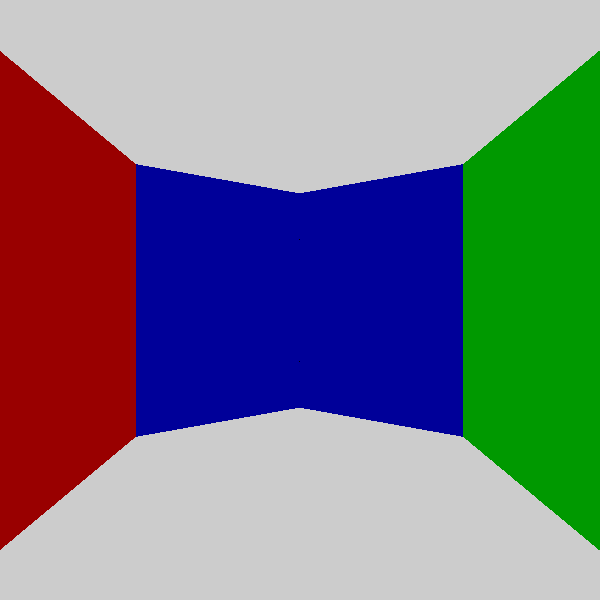
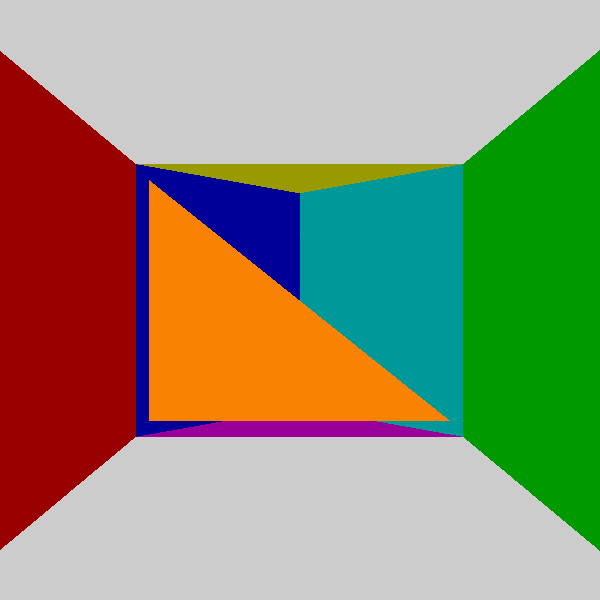
More colors and fixed intersection
Full raytracer mode on ya fellas

Changed region(s): [[0.24, 0.27, 0.78, 0.75]]

diff --git a/source/main.cpp b/source/main.cpp
@@ -1,5 +1,6 @@
 #include <iostream>
 #include <vector>
+#include <limits> // for std::numeric_limits
 
 #include "../include/glm/glm.hpp"
 #include "../include/colorDBL.h"
@@ -18,14 +19,13 @@ int main() {
     int imageWidth = 600;
     int imageHeight = 600;
 
-    // Creates the image plane
-    std::vector<std::vector<ColorDBL>> pixelMatrix(imageWidth, std::vector<ColorDBL>(imageHeight));
-
+    // Creates the camera with an image plane
+    std::vector<std::vector<ColorDBL>> imagePlane(imageWidth, std::vector<ColorDBL>(imageHeight));
     Camera theCamera(glm::vec3(-1, 0, 0), imageWidth, imageHeight);
     theScene.addCamera(theCamera);
 
     // Add objects (e.g., spheres, triangles) to the scene
-    
+    theScene.addPolygon(new Triangle(glm::vec3(9, 5, -4), glm::vec3(9, -5, -4), glm::vec3(9, 5, 4), ColorDBL(0.98, 0.51, 0.01)));
 
     // Adds a light to the scene
     Light* theLight = new Light(glm::vec3(0, 0, 5), 4.0f, 4.0f, glm::vec3(1, 1, 1));
@@ -42,25 +42,41 @@ int main() {
             // Create a ray with startpos at the eye and endpos at the camera plane
             Ray rayFromPixel = theCamera.castRay(ndcX, ndcY);
 
+            // Initialize variables to store information about the closest intersection
+            float closestT = std::numeric_limits<float>::infinity();
+            glm::vec3 closestIntersectionPoint;
+            ColorDBL closestColor;
+
+            // Loop through each polygon in the scene
             for (const Polygon* p : theScene.getTheRoom()) {
 
-                glm::vec3 checkIfPointHit = p->PointInPolygon(rayFromPixel);
+                glm::vec3 intersectionPoint = p->PointInPolygon(rayFromPixel);
 
-                // If the point hits a plane
-                if (checkIfPointHit != glm::vec3(-100, -100, -100)) {
+                // If the ray intersects the polygon
+                if (intersectionPoint != glm::vec3(-100, -100, -100)) {
 
-                    pixelMatrix[imageWidth - 1 - row][col] = p->color_;
-                    break;
+                    // Calculate t value for the intersection
+                    float t = glm::length(intersectionPoint - rayFromPixel.startVertex);
+
+                    // Check if this intersection is closer than the current closest one
+                    if (t < closestT) {
+                        closestT = t;
+                        closestIntersectionPoint = intersectionPoint;
+                        closestColor = p->color_;
+                    }
                 }
             }
+
+            // Assign the color of the closest intersection
+            imagePlane[imageWidth - 1 - row][col] = closestColor;
+
         }
     }
-
 
     // Saves the rendered picture as a PNG -----------------------------------------------------------------------------
     const char* outputPath = "../outputImage/rendered_image.png";
     
-    theCamera.renderAndSaveImage(outputPath, imageWidth, imageHeight, pixelMatrix);
+    theCamera.renderAndSaveImage(outputPath, imageWidth, imageHeight, imagePlane);
     
     return 0;
 }

diff --git a/source/scene.cpp b/source/scene.cpp
@@ -5,21 +5,25 @@ Scene::Scene() {
 
     cameras.clear();
     lights.clear();
+    theRoom.clear();
 }
 
 void Scene::addRoom() {
     ColorDBL redColor = ColorDBL(0.6, 0.0, 0.0);
     ColorDBL greenColor = ColorDBL(0.0, 0.6, 0.0);
     ColorDBL blueColor = ColorDBL(0.0, 0.0, 0.6);
+    ColorDBL yellowColor = ColorDBL(0.6, 0.6, 0.0);
+    ColorDBL magentaColor = ColorDBL(0.6, 0.0, 0.6);
+    ColorDBL cyanColor = ColorDBL(0.0, 0.6, 0.6);
     ColorDBL whiteColor = ColorDBL(0.8, 0.8, 0.8);
 
     // Ceiling
-    theRoom.push_back(new Triangle(glm::vec3(10, -6, 5),glm::vec3(10, 6, 5), glm::vec3(13, 0, 5), whiteColor));
+    theRoom.push_back(new Triangle(glm::vec3(10, -6, 5),glm::vec3(10, 6, 5), glm::vec3(13, 0, 5), yellowColor));
     theRoom.push_back(new Triangle(glm::vec3(0, 6, 5), glm::vec3(-3, 0, 5), glm::vec3(0, -6, 5), whiteColor));
     theRoom.push_back(new Rectangle(glm::vec3(0, 6, 5), glm::vec3(10, 6, 5), glm::vec3(0, -6, 5), glm::vec3(10, -6, 5), whiteColor));
 
     // Floor
-    theRoom.push_back(new Triangle(glm::vec3(10, 6, -5), glm::vec3(10, -6, -5), glm::vec3(13, 0, -5), whiteColor));
+    theRoom.push_back(new Triangle(glm::vec3(10, 6, -5), glm::vec3(10, -6, -5), glm::vec3(13, 0, -5), magentaColor));
     theRoom.push_back(new Triangle(glm::vec3(0, 6, -5), glm::vec3(0, -6, -5), glm::vec3(-3, 0, -5), whiteColor));
     theRoom.push_back(new Rectangle(glm::vec3(0, -6, -5), glm::vec3(10, -6, -5),glm::vec3(0, 6, -5), glm::vec3(10, 6, -5), whiteColor));
 
@@ -33,7 +37,7 @@ void Scene::addRoom() {
     theRoom.push_back(new Rectangle(glm::vec3(-3, 0, -5), glm::vec3(0, 6, -5), glm::vec3(-3, 0, 5), glm::vec3(0, 6, 5), blueColor));
 
     // Wall RF
-    theRoom.push_back(new Rectangle(glm::vec3(13, 0, -5), glm::vec3(10, -6, -5), glm::vec3(13, 0, 5), glm::vec3(10, -6, 5), blueColor));
+    theRoom.push_back(new Rectangle(glm::vec3(13, 0, -5), glm::vec3(10, -6, -5), glm::vec3(13, 0, 5), glm::vec3(10, -6, 5), cyanColor));
 
     // Wall R
     theRoom.push_back(new Rectangle(glm::vec3(10, -6, -5), glm::vec3(0, -6, -5), glm::vec3(10, -6, 5), glm::vec3(0, -6, 5), greenColor));
@@ -42,6 +46,10 @@ void Scene::addRoom() {
     theRoom.push_back(new Rectangle(glm::vec3(0, -6, -5), glm::vec3(-3, 0, -5), glm::vec3(0, -6, 5), glm::vec3(-3, 0, 5), blueColor));
 
     std::cout << "Added a room to the scene" << std::endl << std::endl;
+}
+
+void Scene::addPolygon(Polygon* polygon) {
+    theRoom.push_back(polygon);
 }
 
 void Scene::addLight(Light* light) {

diff --git a/source/camera.cpp b/source/camera.cpp
@@ -28,6 +28,8 @@ Ray Camera::castRay(float pixelX, float pixelY) {
     return ray;
 }
 
+
+
 void Camera::renderAndSaveImage(const char* outputPath, int imageWidth, int imageHeight, std::vector<std::vector<ColorDBL>> matrix) {
 
     // Create an array to store the image data

diff --git a/include/scene.h b/include/scene.h
@@ -14,6 +14,9 @@ public:
     // Adds a room in the scene
     void addRoom();
 
+    // Adds a single polygon to the scene
+    void addPolygon(Polygon* polygon);        
+
     // Add a light to the scene
     void addLight(Light* light);
 
